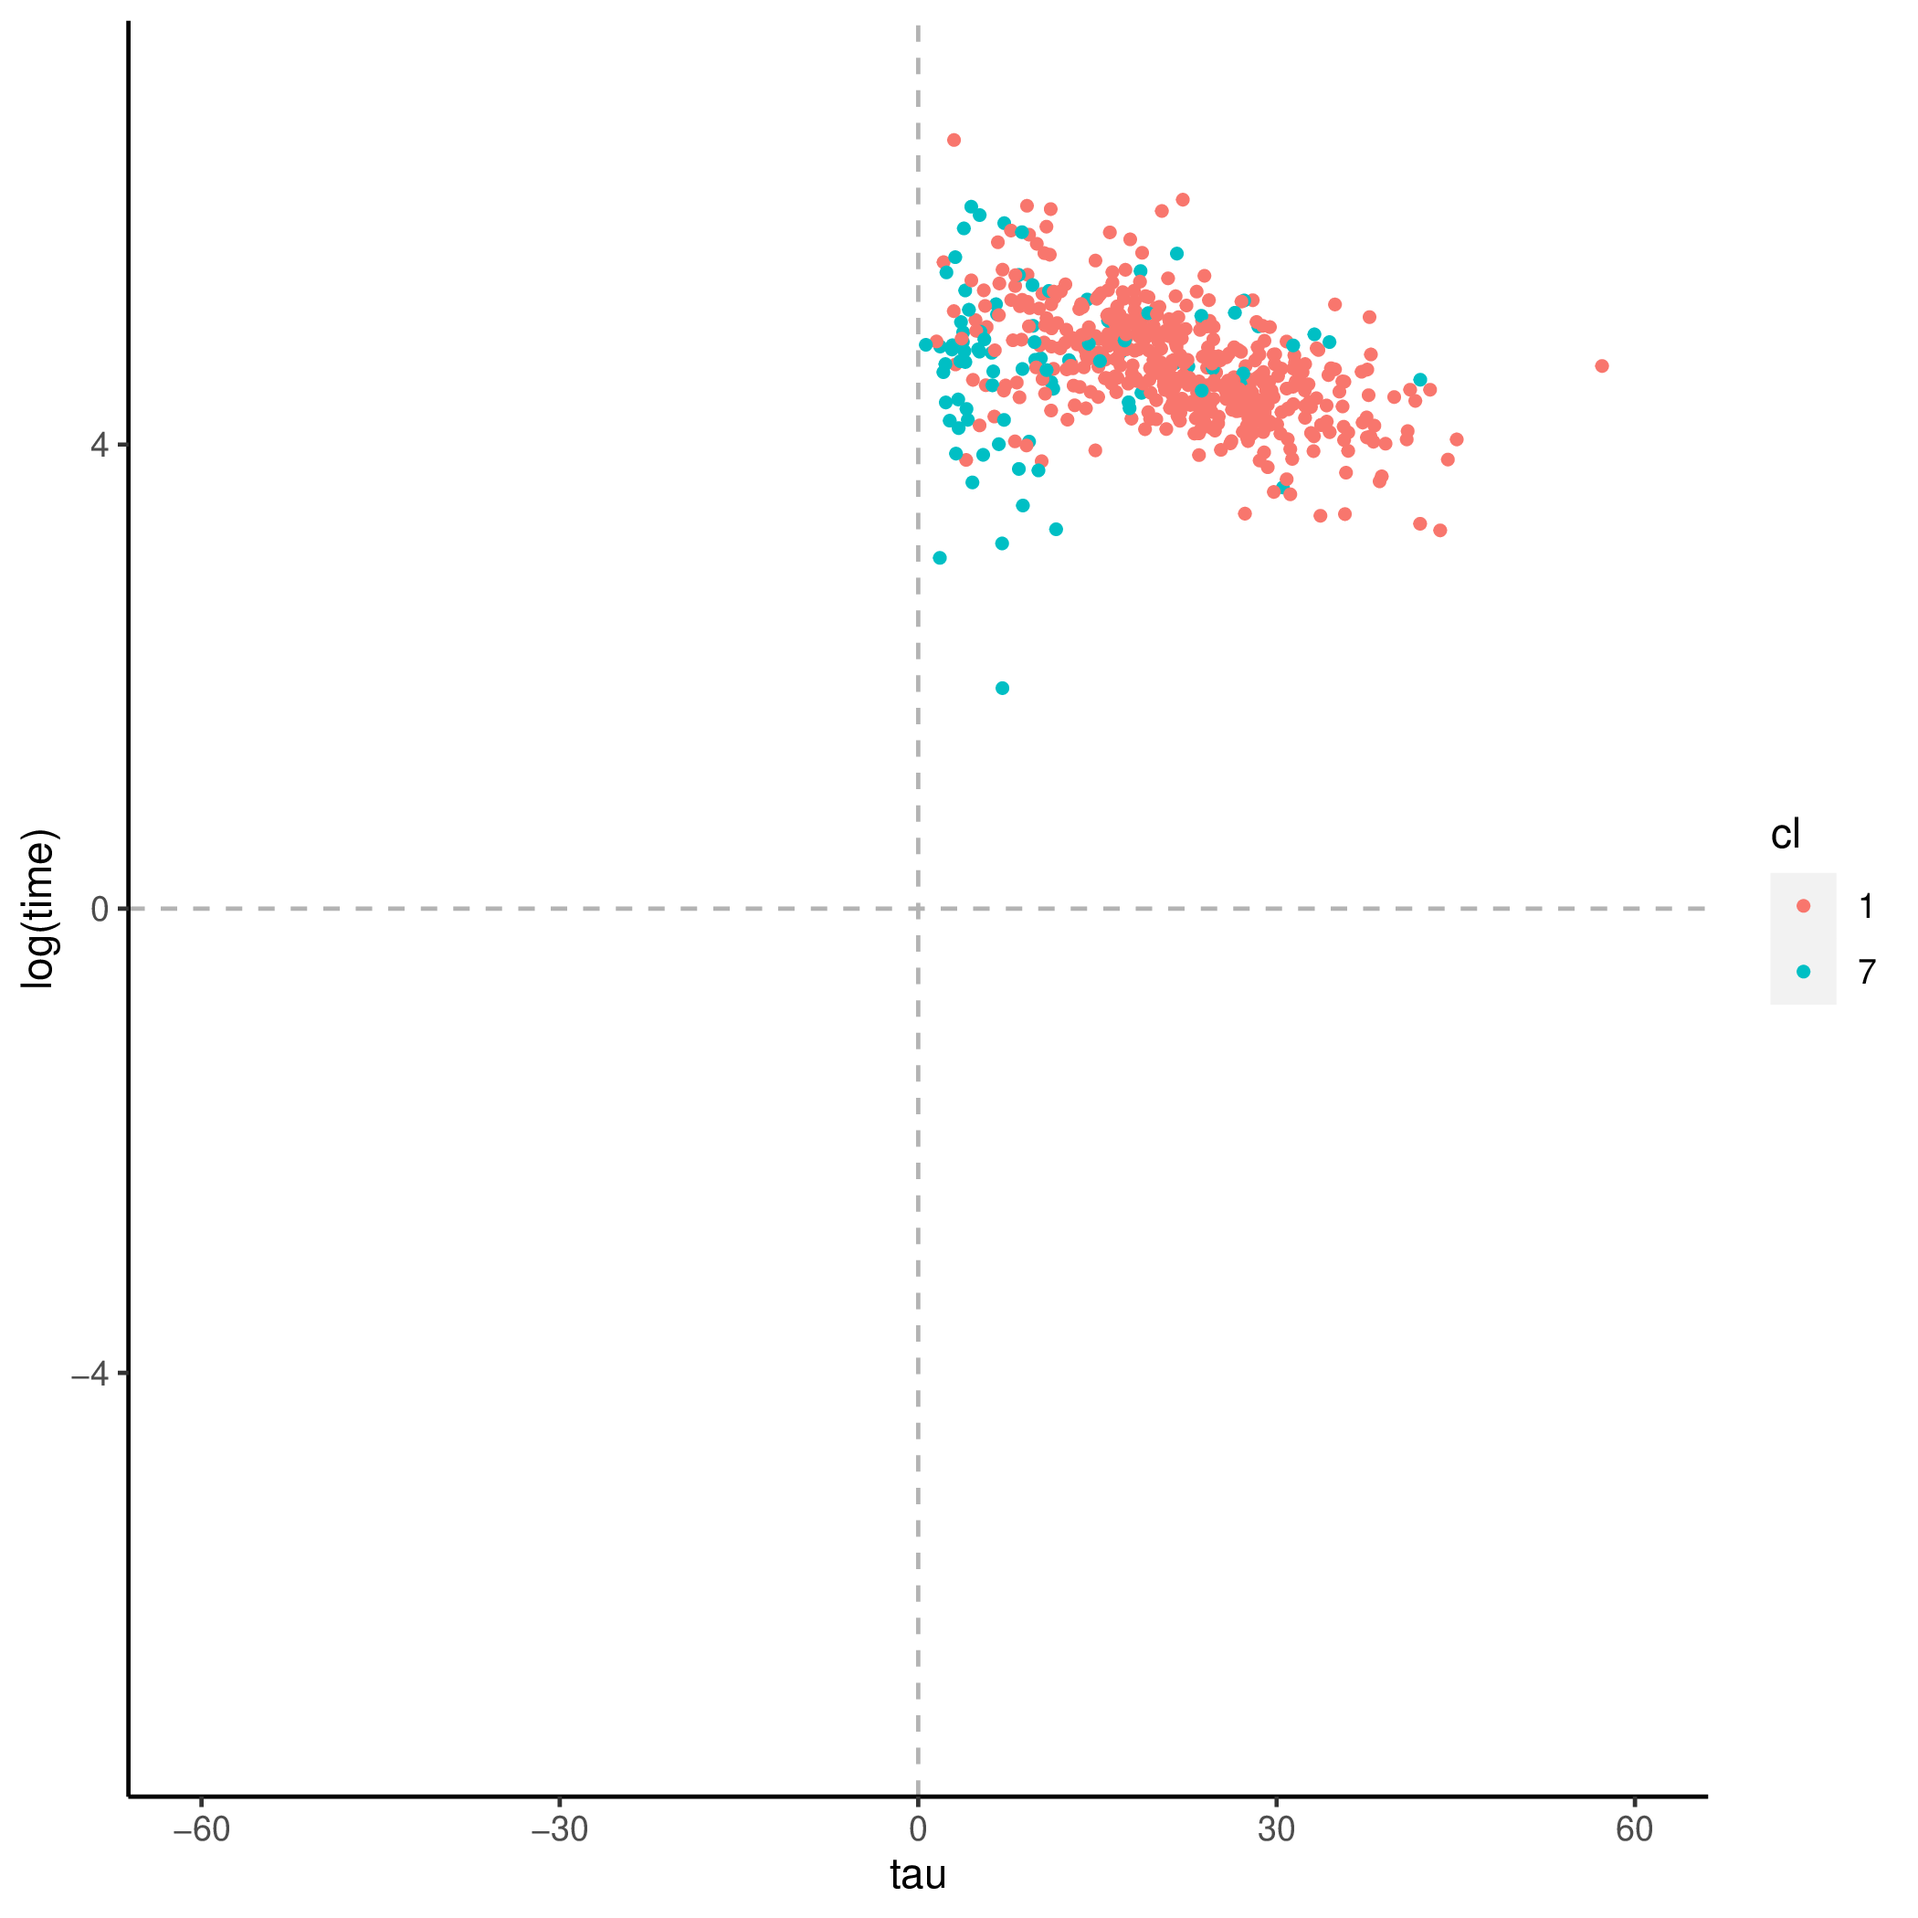
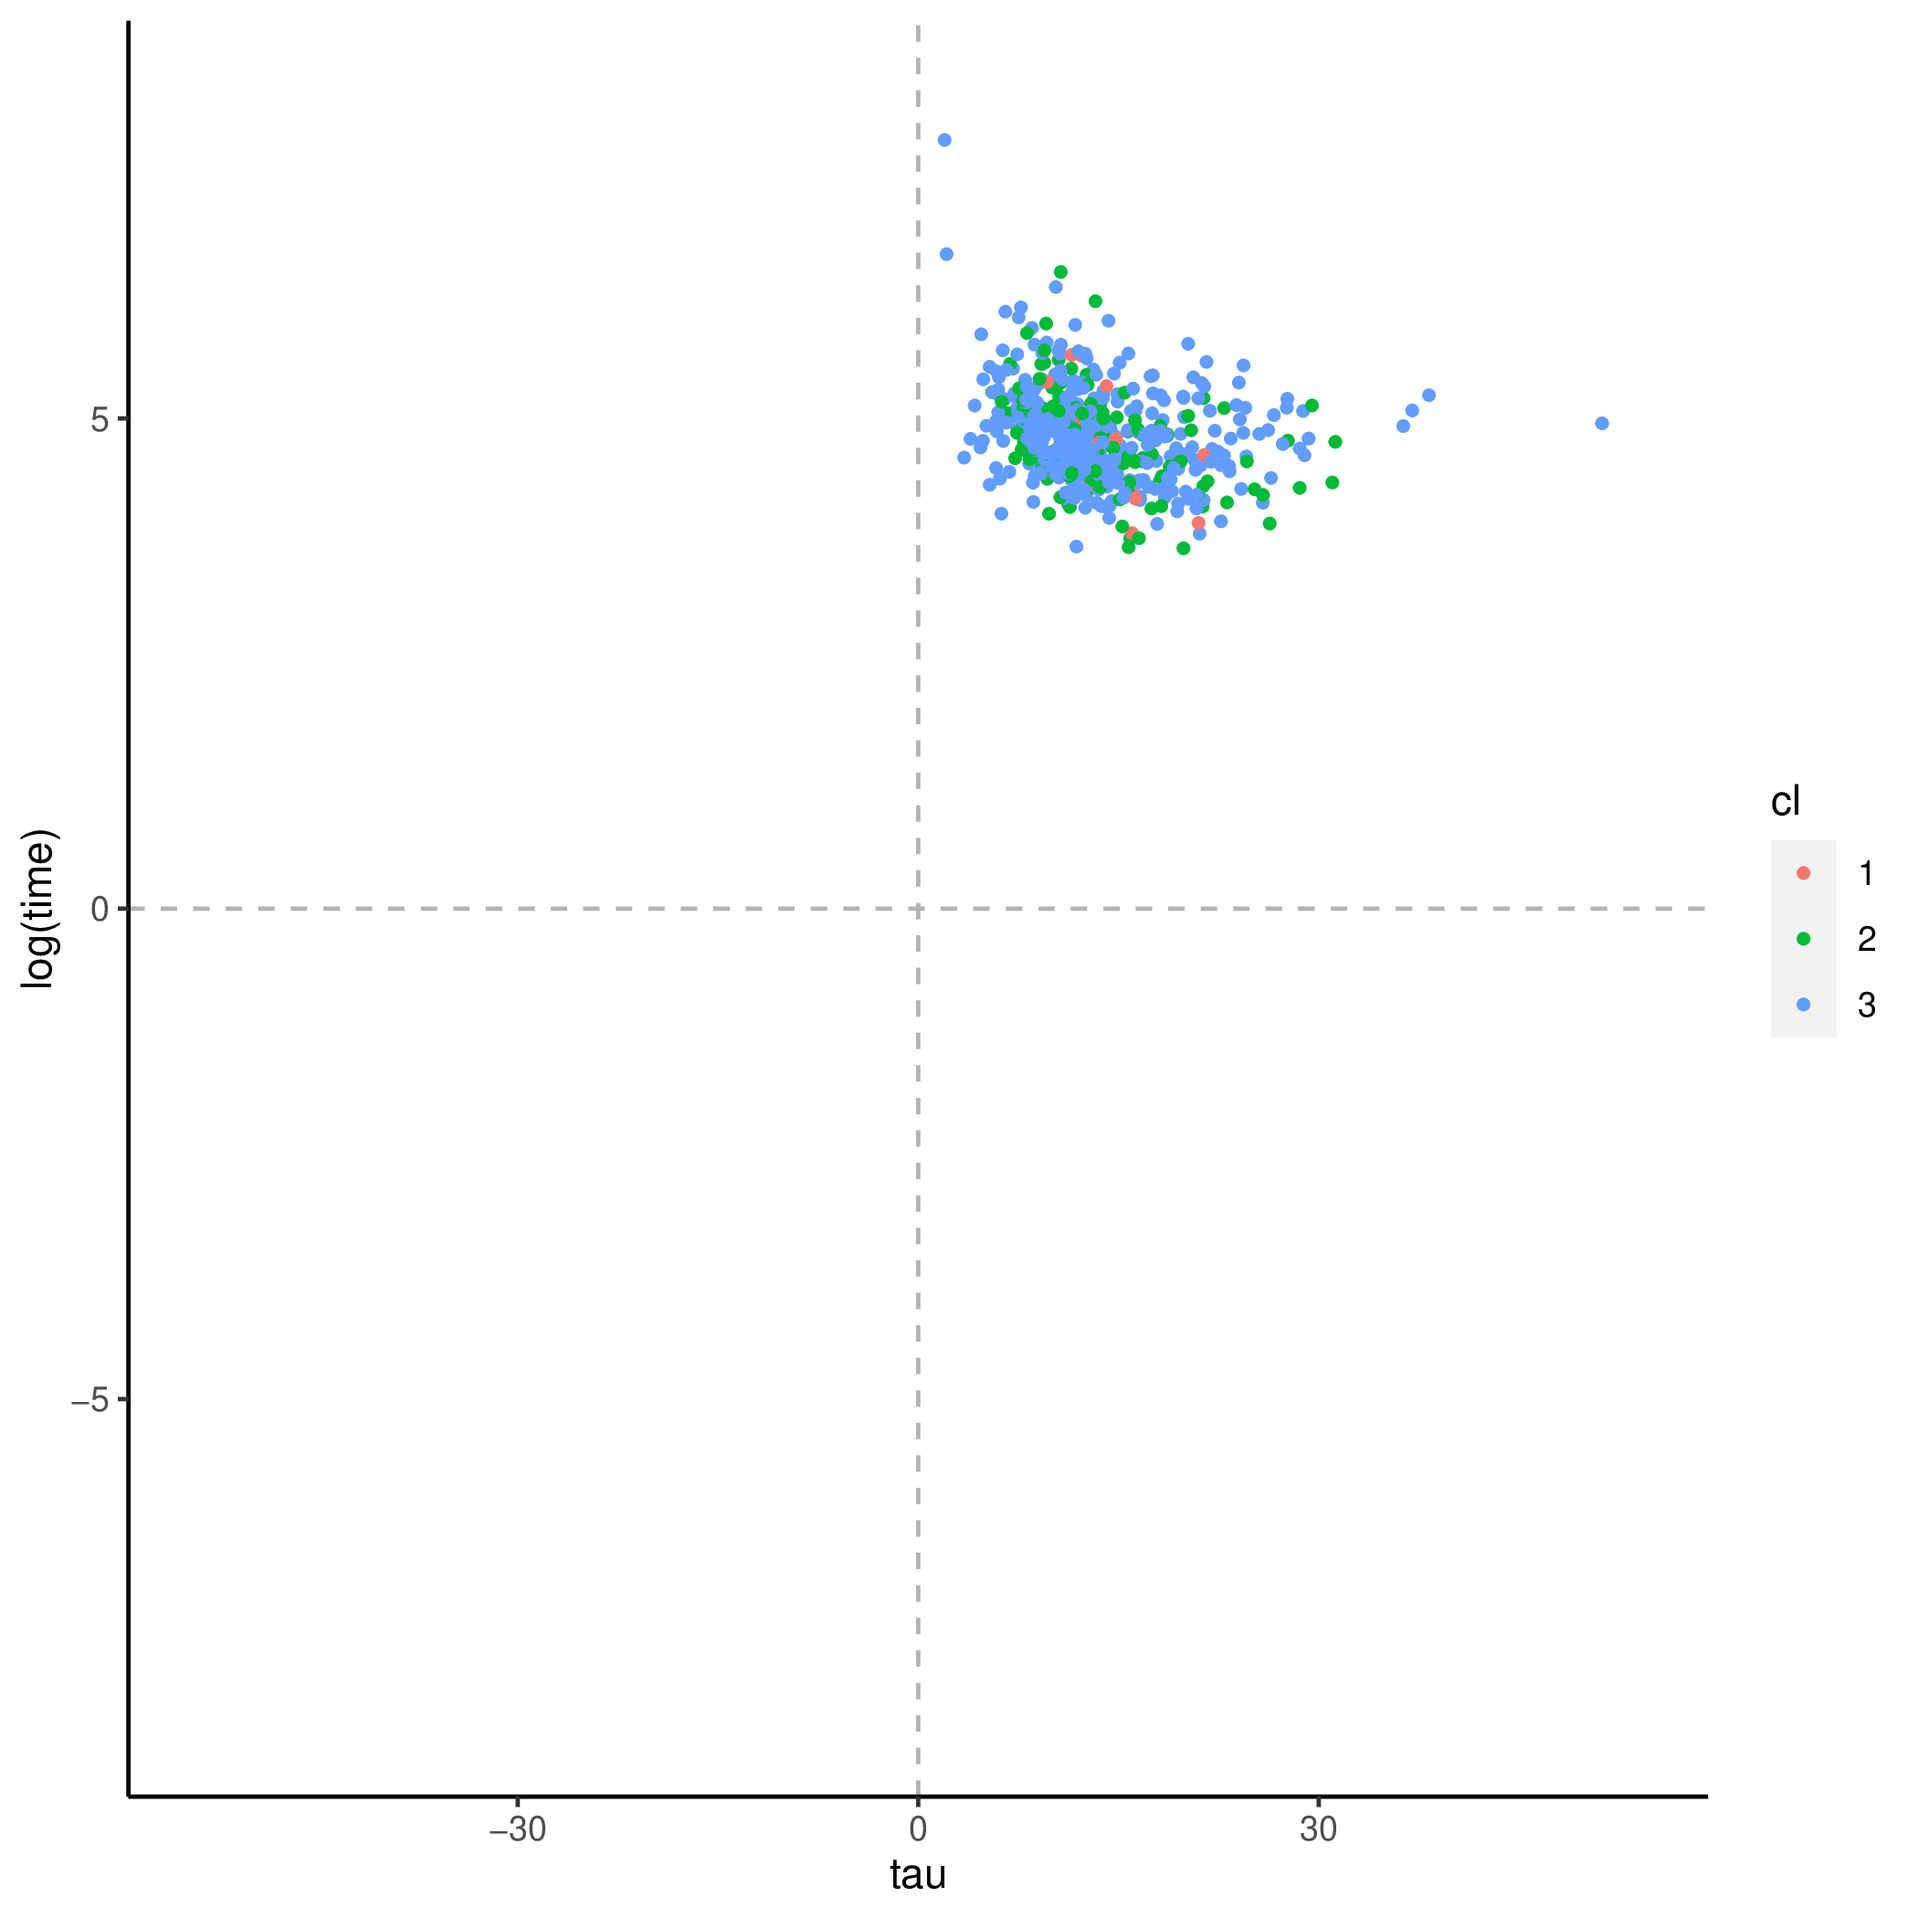
pushing changes 2021-09-14 15:07:51 CDT

diff --git a/docs/content/piacc/item_results/club_membership-1/_index.md b/docs/content/piacc/item_results/club_membership-1/_index.md
@@ -1,11 +1,12 @@
 +++
 title = "club_membership-1"
 author = ["Jonghyun Yun"]
-lastmod = 2021-09-14T12:18:38-05:00
+lastmod = 2021-09-14T15:07:51-05:00
 draft = false
 +++
 
 ![](figure/theta_tau_res.png)
+![](figure/tau_action.png)
 ![](figure/time_action-3.png)
 ![](figure/time_action_more-2.png)
 ![](figure/time_action_more-5.png)
